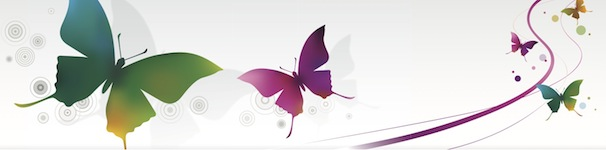
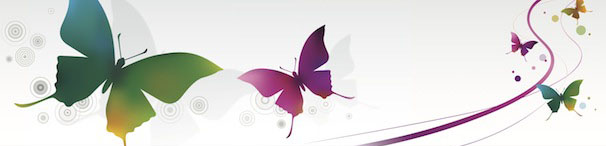
style updates

diff --git a/app/assets/stylesheets/application.css b/app/assets/stylesheets/application.css
@@ -26,11 +26,26 @@ html {
   overflow-y: scroll;
 }
 
+	
+
 body { 
   font: 13px 'Helvetica Neue', Arial, sans-serif;
-  background: #D8D5D2;
+  background: #66a3d2;
   color: #222;
   line-height: 1.6em;
+}
+
+#header {
+	/* background-image: url('Vector_Banner_000145_slice.jpg'); */
+	background: black;
+	width: 100%;
+	color: #A7CCE9;
+}
+#header a {
+	color: #A7CCE9;
+}
+#header a:active {
+	color: #A7CCE9;
 }
 
 a {
@@ -58,7 +73,7 @@ h1, h2 {
 }
 
 h1 {
-  font-size: 92px;
+  font-size: 36px;
 }
 
 h2 {
